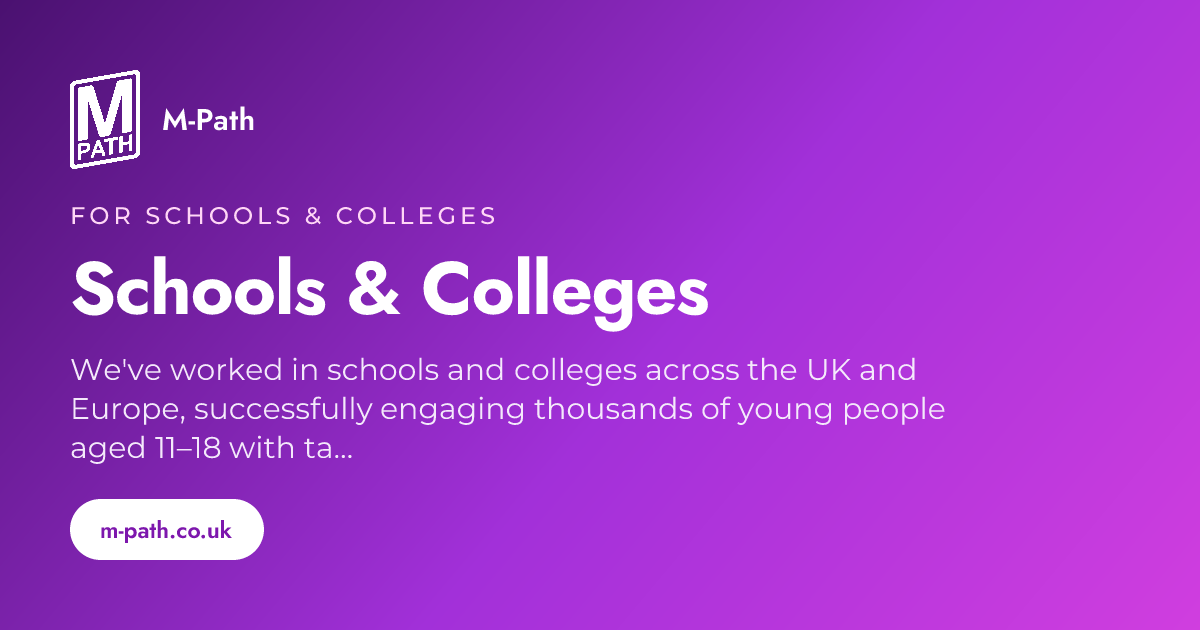
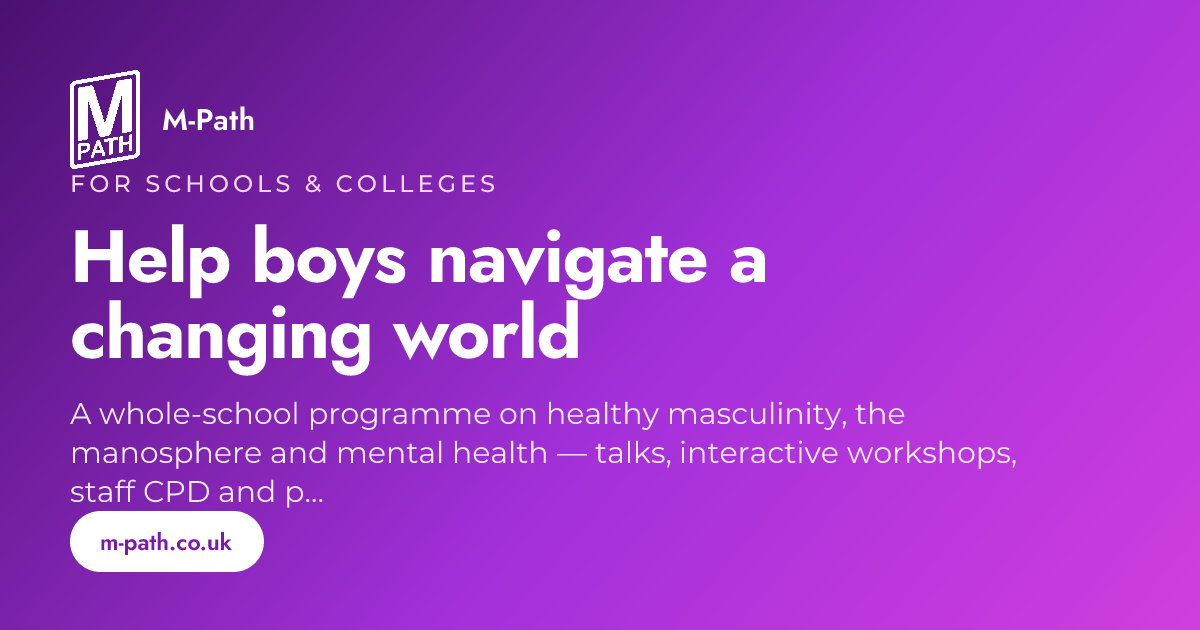
feat: schools/workplaces message architecture (grounded, audience-correct)
Per the functional design review — all grounded in the real source, nothing invented:
- Credentials/trust strip per audience (BACP, BBC/Telegraph, UN/Number 10, 10+ yrs).
- 'How it works' process timeline (path-motif rail; generic engagement shape, no
  invented prices).
- Objection-handling FAQ (is this therapy? blame? anti-women? logistics?) drawn
  from the site's own thesis.
- Audience-correct testimonials: workplaces show corporate quotes; schools show the
  speaker/education-relevant one (LSB) — no more Barclays quotes on a schools page.
- Sharpened per-audience hero copy (buyer outcome + named-logo proof).
- Fixed the duplicate schools heading.
New components: CredentialStrip, ProcessTimeline, FaqAccordion, AudienceChooser.
Anything needing client data (named-school quotes, DBS, pricing) stays 'on request'.
Build + check green; schools verified (0 errors, no dup headings, 0 broken imgs).

Changed region(s): [[0.0617, 0.2714, 0.7708, 0.6032], [0.0617, 0.6333, 0.8325, 0.9349]]

diff --git a/src/routes/(site)/workplaces/+page.svelte b/src/routes/(site)/workplaces/+page.svelte
@@ -1,17 +1,21 @@
 <script lang="ts">
-  import { workplaces, partners, testimonials } from '$lib/content';
+  import { workplaces, partners, testimonialsFor } from '$lib/content';
   import { buildSeo } from '$lib/seo';
   import SeoHead from '$lib/components/SeoHead.svelte';
   import Hero from '$lib/components/Hero.svelte';
   import Section from '$lib/components/Section.svelte';
   import Prose from '$lib/components/Prose.svelte';
+  import CredentialStrip from '$lib/components/CredentialStrip.svelte';
   import ProgrammeAccordion from '$lib/components/ProgrammeAccordion.svelte';
+  import ProcessTimeline from '$lib/components/ProcessTimeline.svelte';
+  import FaqAccordion from '$lib/components/FaqAccordion.svelte';
   import PhotoFeature from '$lib/components/PhotoFeature.svelte';
   import LogoWall from '$lib/components/LogoWall.svelte';
   import TestimonialCards from '$lib/components/TestimonialCards.svelte';
   import CtaBand from '$lib/components/CtaBand.svelte';
 
   const seo = buildSeo({ seo: workplaces.seo, path: '/workplaces' });
+  const quotes = testimonialsFor('workplace');
 </script>
 
 <SeoHead {seo} />
@@ -23,8 +27,14 @@
   ctas={workplaces.hero.ctas}
 />
 
+{#if workplaces.credentials}
+  <Section tone="paper" heading={workplaces.credentials.heading}>
+    <CredentialStrip items={workplaces.credentials.items} />
+  </Section>
+{/if}
+
 {#if workplaces.intro}
-  <Section tone="paper">
+  <Section tone="lilac">
     <PhotoFeature
       image={{ src: '/img/photos/chris-nike.png', alt: 'Chris Hemmings speaking at a corporate event' }}
       eyebrow="Through a DE&I lens"
@@ -36,21 +46,33 @@
   </Section>
 {/if}
 
-<Section tone="mist" eyebrow={workplaces.programme.eyebrow} heading={workplaces.programme.heading}>
+<Section tone="sand" eyebrow={workplaces.programme.eyebrow} heading={workplaces.programme.heading}>
   <ProgrammeAccordion steps={workplaces.programme.steps} />
-  {#if workplaces.note}
-    <div class="mx-auto mt-8 max-w-3xl rounded-2xl border border-line bg-paper-2 p-6">
-      <Prose md={workplaces.note} class="!text-[15.5px]" />
-    </div>
-  {/if}
 </Section>
 
 <Section tone="paper" heading="Organisations we've worked with">
   <LogoWall items={partners} />
 </Section>
 
+{#if workplaces.process}
+  <Section tone="plum" eyebrow={workplaces.process.eyebrow} heading={workplaces.process.heading}>
+    <ProcessTimeline steps={workplaces.process.steps} dark />
+  </Section>
+{/if}
+
+{#if workplaces.faq}
+  <Section tone="paper" heading={workplaces.faq.heading}>
+    <FaqAccordion items={workplaces.faq.items} />
+  </Section>
+{/if}
+
 <Section tone="lilac" eyebrow="Client feedback" heading="Insightful, honest and engaging">
-  <TestimonialCards items={testimonials.slice(0, 3)} />
+  <TestimonialCards items={quotes} />
+  {#if workplaces.note}
+    <div class="mx-auto mt-8 max-w-3xl rounded-2xl border border-line bg-paper-2 p-6">
+      <Prose md={workplaces.note} class="!text-[15.5px]" />
+    </div>
+  {/if}
 </Section>
 
 <CtaBand heading={workplaces.cta.heading} body={workplaces.cta.body} ctas={workplaces.cta.ctas} />

diff --git a/src/routes/(site)/schools/+page.svelte b/src/routes/(site)/schools/+page.svelte
@@ -1,16 +1,20 @@
 <script lang="ts">
-  import { schools, testimonials } from '$lib/content';
+  import { schools, testimonialsFor } from '$lib/content';
   import { buildSeo } from '$lib/seo';
   import SeoHead from '$lib/components/SeoHead.svelte';
   import Hero from '$lib/components/Hero.svelte';
   import Section from '$lib/components/Section.svelte';
   import Prose from '$lib/components/Prose.svelte';
+  import CredentialStrip from '$lib/components/CredentialStrip.svelte';
   import ProgrammeAccordion from '$lib/components/ProgrammeAccordion.svelte';
+  import ProcessTimeline from '$lib/components/ProcessTimeline.svelte';
+  import FaqAccordion from '$lib/components/FaqAccordion.svelte';
   import PhotoFeature from '$lib/components/PhotoFeature.svelte';
   import TestimonialCards from '$lib/components/TestimonialCards.svelte';
   import CtaBand from '$lib/components/CtaBand.svelte';
 
   const seo = buildSeo({ seo: schools.seo, path: '/schools' });
+  const quotes = testimonialsFor('schools');
 </script>
 
 <SeoHead {seo} />
@@ -22,8 +26,14 @@
   ctas={schools.hero.ctas}
 />
 
+{#if schools.credentials}
+  <Section tone="paper" heading={schools.credentials.heading}>
+    <CredentialStrip items={schools.credentials.items} />
+  </Section>
+{/if}
+
 {#if schools.intro}
-  <Section tone="paper">
+  <Section tone="lilac">
     <PhotoFeature
       image={{ src: '/img/photos/mpath-workshop-3.jpg', alt: 'Students in an M-Path school workshop' }}
       eyebrow="For pupils of all genders"
@@ -34,17 +44,29 @@
   </Section>
 {/if}
 
-<Section tone="mist" eyebrow={schools.programme.eyebrow} heading={schools.programme.heading}>
+<Section tone="sand" eyebrow={schools.programme.eyebrow} heading={schools.programme.heading}>
   <ProgrammeAccordion steps={schools.programme.steps} />
+</Section>
+
+{#if schools.process}
+  <Section tone="plum" eyebrow={schools.process.eyebrow} heading={schools.process.heading}>
+    <ProcessTimeline steps={schools.process.steps} dark />
+  </Section>
+{/if}
+
+{#if schools.faq}
+  <Section tone="paper" heading={schools.faq.heading}>
+    <FaqAccordion items={schools.faq.items} />
+  </Section>
+{/if}
+
+<Section tone="lilac" eyebrow="What people say" heading="A dynamic, engaging speaker for schools">
+  <TestimonialCards items={quotes} columns={quotes.length > 1 ? 3 : 2} />
   {#if schools.note}
     <div class="mx-auto mt-8 max-w-3xl rounded-2xl border border-line bg-paper-2 p-6">
       <Prose md={schools.note} class="!text-[15.5px]" />
     </div>
   {/if}
-</Section>
-
-<Section tone="lilac" eyebrow="What our clients say" heading="Transformational when boys are met with understanding">
-  <TestimonialCards items={testimonials.slice(0, 3)} />
 </Section>
 
 <CtaBand heading={schools.cta.heading} body={schools.cta.body} ctas={schools.cta.ctas} />